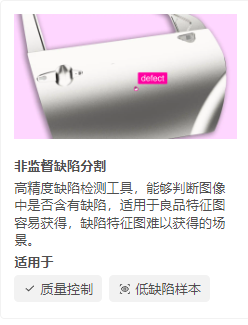
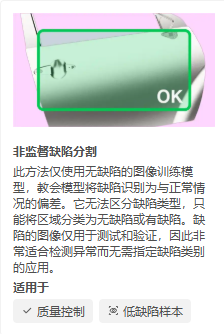
update .8

diff --git a/docs/source/conf.py b/docs/source/conf.py
@@ -6,8 +6,8 @@ project = 'DaoAI World用户手册'
 copyright = '2021-2024 DaoAI Robotics Inc.'
 author = 'DaoAI'
 
-release = '2024.7'
-version = '2024.7.1'
+release = '2024.8'
+version = '2024.8.0'
 
 # -- General configuration
 

diff --git a/docs/source/model/ano/index.rst b/docs/source/model/ano/index.rst
@@ -1,7 +1,7 @@
 非监督缺陷分割
 ==========================================
 
-**非监督缺陷分割** 可以识别物体是否处在异常(NG)状态，如有破损，变形等。
+**非监督缺陷分割** 是一种正常数据训练的模型，能够识别物体是否处于异常 (NG) 状态，例如破损、变形等问题。  
 
     .. image:: Images/ano.png
         :scale: 100%
@@ -10,56 +10,119 @@
 
         <div style="position: relative; padding-bottom: 0.25%; height: 0; overflow: hidden; max-width: 80%; height: auto;">
             <video width="80%" height="auto" controls>
-                <source src="http://docs.welinkirt.com/static/videos/dw_ano-v6.mp4" type="video/mp4">
+                <source src="http://docs.welinkirt.com/static/videos/dw_ano-v8.mp4" type="video/mp4">
             </video>
         </div>
 
 |
 
-完成模型标注后，可以参考 :ref:`训练` 章节下的视频，创建数据集版本并训练部署。
+完成模型训练后，可参考 :ref:`训练` 章节下的视频，创建数据集版本并部署模型。
 
-模型选择场景
+适用场景
+---------------------
+
+**非监督缺陷分割** 适用于以下场景：
+
+1. **单一物体**：数据集中仅包含一种物体，且该物体的位置需要保持相对固定。
+2. **异常检测**：物体处于正常或异常 (NG) 两种状态，能够判断物体是否发生了破损、变形等变化。
+
+
+模型检测模式
 ------------------------------------------
 
-**非监督缺陷分割** 作用于单一物体，即数据集中只包含一种物体，并且物体的位置需要保持相对固定，该物体分为正常和异常两种状态。
+新版 **非监督缺陷分割** 模型支持以下四种检测模式，可根据场景需求选择：
 
-**非监督缺陷分割** 会学习并判断物体是否处在异常状态，并使用多边形标注出物体的异常区域。
+1. **图像级 - 全图检测**  
+   - 对整张图像进行分析，判断是否存在缺陷。
+   - 适用于无需精确定位的场景。
+
+2. **图像级 - 区域检测**  
+   - 分析图像的若干特定区域，判断目标区域是否存在缺陷。
+   - 适用于目标区域固定的场景。
+
+3. **像素级 - 全图检测**  
+   - 在整张图像中对每个像素进行分析，标注出异常区域。
+   - 适用于精确定位缺陷区域的场景。
+
+4. **像素级 - 区域检测**  
+   - 在图像的若干特定区域中对每个像素进行分析，标注出异常区域。
+   - 适用于需要精确标注目标区域的场景。
 
 标注方法
 ----------------
 
-如果有已经训练过的模型，可以使用辅助标注工具，让深度学习模型来帮助您标注，然后您再检查以及纠正标注。
-    .. image:: Images/suppor_anno.png
-        :scale: 100%
+非监督缺陷分割项目中，每种模型检测模式的标注方式有所不同，具体如下：  
 
-如果物体没有缺陷，请标注为正常
+1. **图像级 - 全图检测**  
+   为每张图片标注状态为 **OK**（正常）或 **NG**（异常）。  
 
-    .. image:: Images/anoAnno2.png
-        :scale: 100%
+   .. image:: Images/img_whole_anno.png  
+        :scale: 60%  
 
-如果物体存在缺陷，请标注为异常。使用多边形工具，或者智能多边形，标注出异常区域的外轮廓。
+   支持批量选择图片并统一标注为 **OK** 或 **NG**。  
 
-    .. image:: Images/anoAnno1.png
-        :scale: 100%
+   .. image:: Images/batch_annotate.png  
+        :scale: 60%  
+
+2. **图像级 - 区域检测**  
+   首先，定义一个标准图片并在图片上框选出检测区域，保存后即作为模板。由于非监督检测要求物体位置保持相对固定，所有图片的检测区域都应覆盖相同的待检测部件。
+
+   .. image:: Images/img_region_anno.png  
+        :scale: 60%  
+
+   标注时，依次点击检测区域并标注为 **OK** 或 **NG**。  
+
+   .. image:: Images/img_region_anno.png  
+        :scale: 60%  
+
+3. **像素级 - 全图检测**  
+   使用智能标注工具或多边形工具标注出缺陷区域的轮廓。  
+
+   .. image:: Images/pixel_whole_anno.png  
+        :scale: 60%  
+
+4. **像素级 - 区域检测**  
+   首先，定义一个标准图片并框选出检测区域，保存后即作为模板。  
+
+   .. image:: Images/pixel_region_anno.png  
+        :scale: 60%  
+
+   使用智能标注工具或多边形工具，标注检测区域内的缺陷轮廓。如果图片无缺陷，则将其标注为无缺陷。  
+
+   .. image:: Images/pixel_region_anno2.png  
+        :scale: 60%  
 
 注意事项
 ------------
 
-1. **非监督缺陷分割** 项目中只能存在一个标签，用以标注物体出现异常的区域。
+1. **数据一致性**  
+   正常图片不应包含任何缺陷标注，否则可能导致训练失败或结果不理想。
 
-2. **标注正常** 的物体不应含有损害区域标签，否则可能会导致训练结果不理想，或训练失败。
+2. **多缺陷支持**  
+   如果一个物体存在多个缺陷，可以为每个缺陷单独标注区域。
 
-3. 一个物体可以同时有多个损坏标签用来标注多个损坏区域。
+3. **数据比例**  
+   - **正常数据为主**：训练集中的正常图片数量应大于等于无缺陷图片数量。  
 
-.. note::
+4. **默认配置**  
+   非监督缺陷分割模型训练时，不默认添加任何数据增强选项。
 
-    1. 非监督缺陷分割 项目在训练时，需要确保分配的训练集中所包含的图片数量小于等于该数据集中全部无损图片的数量，否则可能会导致训练失败。 同时，数据集中所包含的损坏图片的数量过少也会导致训练结果不理想。
-    
-    2. 非监督缺陷分割 于其他项目不同，默认不添加任何数据增强选项。
+5. **内置图像切分训练**  
+   在全图检测时，可以将训练模式设置为 **正常** 或 **高精度** 。高精度模式会将图片切分为 512×512 或 256×256 分辨率进行训练，虽然检测时间增加，但模型精度会显著提高。
+
+.. note::  
+
+    - 非监督模型对无缺陷数据的质量要求较高，请确保正常数据的标注准确无误。  
+    - 模型性能依赖于正常和异常图片的合理比例配置。  
 
 练习
 --------
 
-从 `练习数据 <https://daoairoboticsinc-my.sharepoint.com/:f:/g/personal/nrd_daoai_com/EkNGNFG9C1ZCkejjwLZ4WOsBUQuhkn6apK4MSej2z1DfQA?e=ZOoc8v>`_ 中下载 anomaly_detection.zip
+从以下链接下载练习数据 anomaly_detection.zip： 
+`练习数据 <https://daoairoboticsinc-my.sharepoint.com/:f:/g/personal/nrd_daoai_com/EkNGNFG9C1ZCkejjwLZ4WOsBUQuhkn6apK4MSej2z1DfQA?e=ZOoc8v>`_
 
-解压缩后您将得到11张图片和标注文件（.json）, 请您只上传图片到DaoAI World进行标注练习。之后可以一同上传图片和标注文件，对比结果。
+解压后，您将获得 11 张图片及其标注文件（.json）。  
+- 上传图片至 DaoAI World 进行标注练习。  
+- 完成标注后，可将图片和标注文件一同上传，验证模型训练效果。
+
+

diff --git a/docs/source/introduce/quick_start/release-notes.rst b/docs/source/introduce/quick_start/release-notes.rst
@@ -4,26 +4,12 @@
 .. contents:: 
     :local:
 
-2.24.7.0 版本更新说明：
+2.24.8.0 版本更新说明：
 --------------------------
 
-- 全新的创建项目界面
-- 新增了演示项目，可以使用演示项目，并在工作空间中获得指导
-- 新增了图像显示设置，能够帮助用户在标注中调整图像设置，提高标注效率
-- 新增了实时显示识别结果和标注结果比较，更好的分辨识别和标注结果的区别
-- 新增了定位模型，用于检测图像中的对象并标记它们的位置，适用于机器人装配等多种工业应用
-- 新增了错漏装检测模型，根据与标准图像对比，检测图像中零件的安装情况。常用与零件的错装和漏装检测
-- 新增了分类模型在标注时，能够标注“背景”标签，表示图中无其他物件，仅有背景
-- 新增了OCR模型能够专注于文本识别项目的语言，用户能够选择所需识别的语言，提高效率和准确率
-- 新增了定义决策标准，可以选择最符合您模型判断要求的决策标准，以便在模型推理时更好地过滤检测结果
-- 新增了最大增强大小选项，可以调整图像增强的次数，以创建更多的训练样本。更大的版本训练时间更长，但通常会获得更好的模型性能
-- 新增了从上一个记录点开始训练，推荐从之前的训练运行中开始，以加快训练速度并提高准确性。如果您已经在此项目上成功训练了模型，这个选项是最好的
-- 新增了模型推理显示，显示推理时间和训练的显卡类型，帮助用户更好的了解识别速度
+
+- 新增了 :ref:`训练状态` ，可以查看所有的训练任务状态
+- 更新 :ref:`非监督缺陷检测` 任务
 
 .. TODO 截图暂时没有中文的
 
-细节信息可以通过我们网页右上角的更新日志查看
-
-.. image:: images/changelog.png
-    :width: 800
-    :align: center

diff --git a/docs/source/train/train_model/index.rst b/docs/source/train/train_model/index.rst
@@ -448,3 +448,14 @@
 
 #. 当项目对于识别时间要求很严苛，允许的识别时间很短，那么你应该选用快速模式；
 #. 当项目对于识别的准确率有很高的要求，允许的容错很少，那么你应该选用准确模式；
+
+
+
+训练状态
+------------------------------------
+
+在 **训练状态** 页面，您可以查看所有训练任务的历史记录以及当前状态。页面显示每个训练任务的详细信息，包括训练进度、状态、开始时间、完成时间等，便于跟踪和管理模型的训练过程。
+
+.. image:: images/train_stat.png
+    :scale: 80%
+    :align: center
